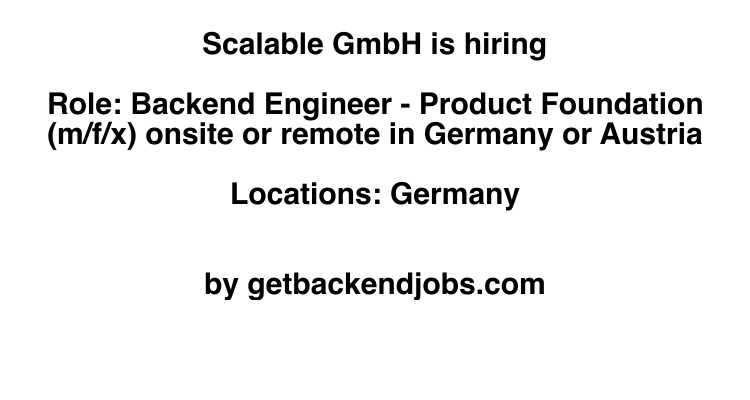
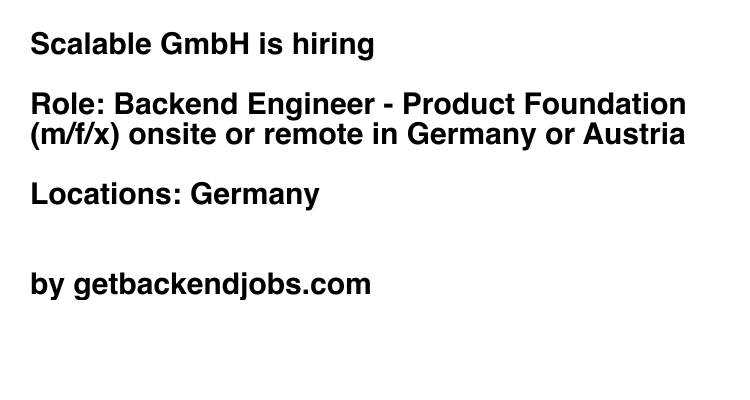
fix: update text-to-image library

diff --git a/pages/jobs/[slug].vue b/pages/jobs/[slug].vue
@@ -50,7 +50,7 @@
 </template>
 
 <script setup>
-const textToImage = require("text-to-image");
+import { generate } from "text-to-image";
 const job = ref({});
 const loading = ref(false);
 
@@ -79,7 +79,7 @@ await getJob();
 
 async function generateImage() {
   try {
-    const dataUri = await textToImage.generate(
+    const dataUri = await generate(
       `${job.value?.company_name} is hiring \n\n Role: ${
         job.value?.position
       } \n\n Locations: ${job.value?.locations?.join(
